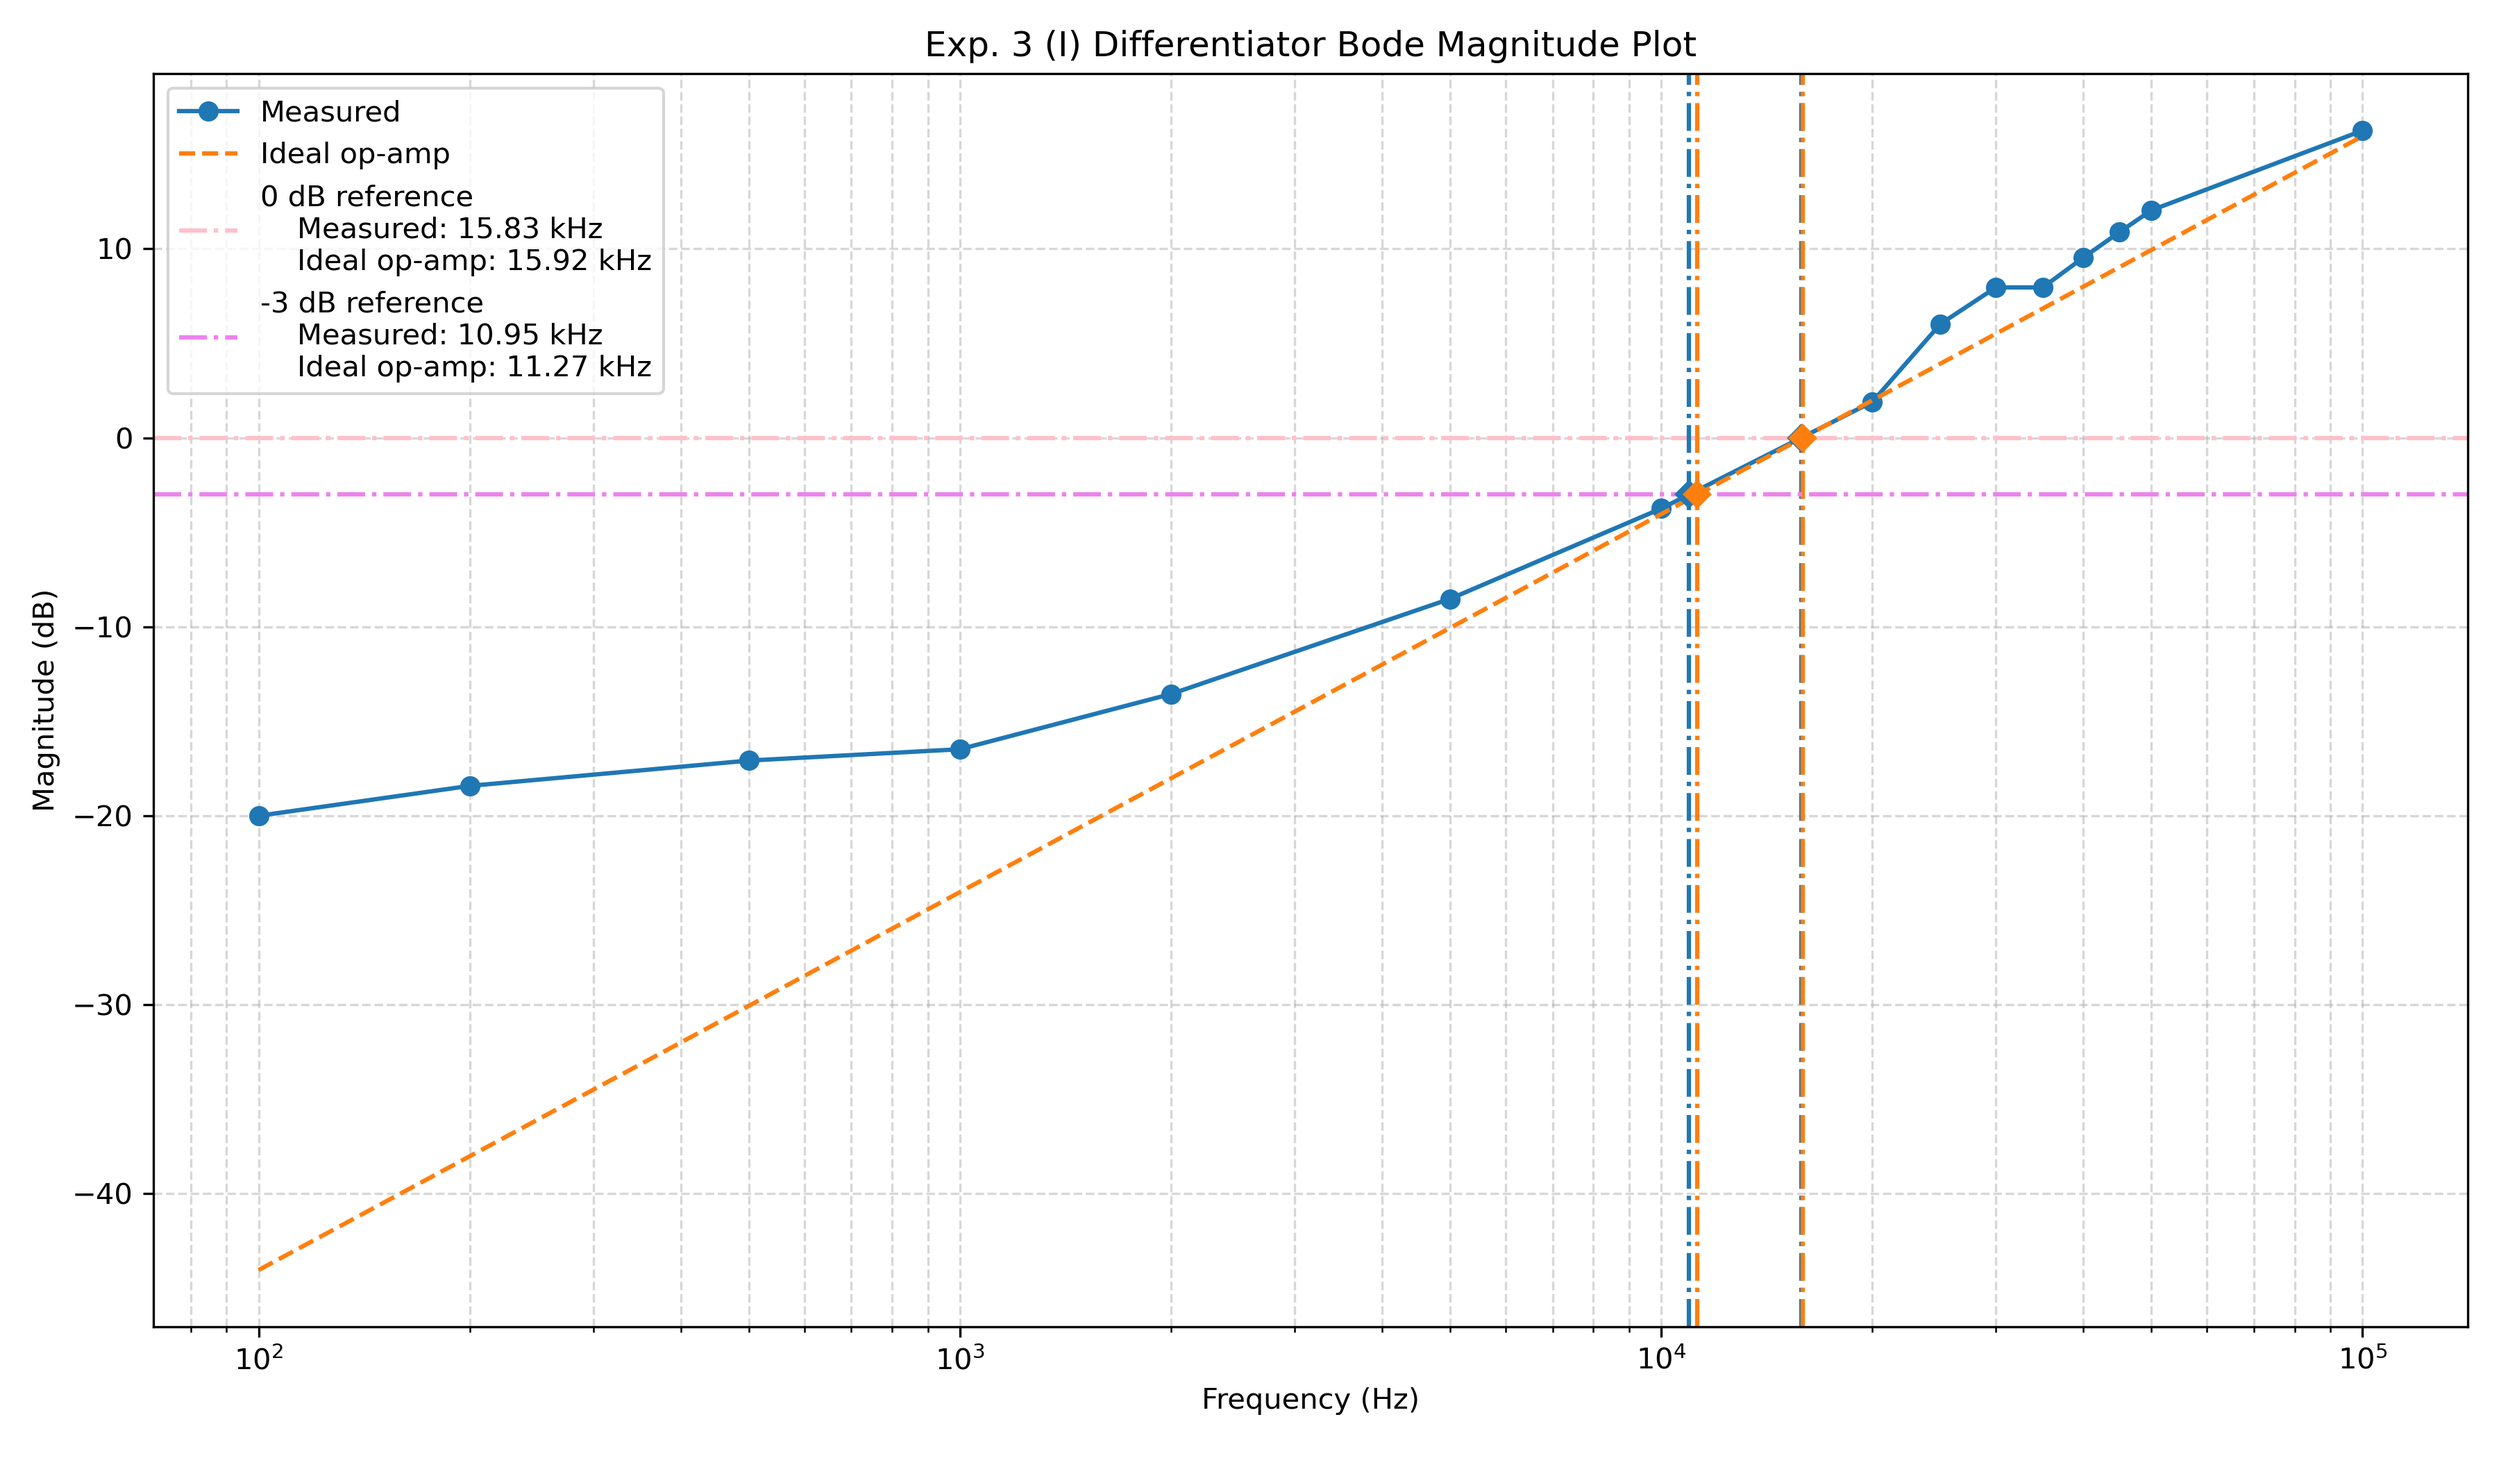
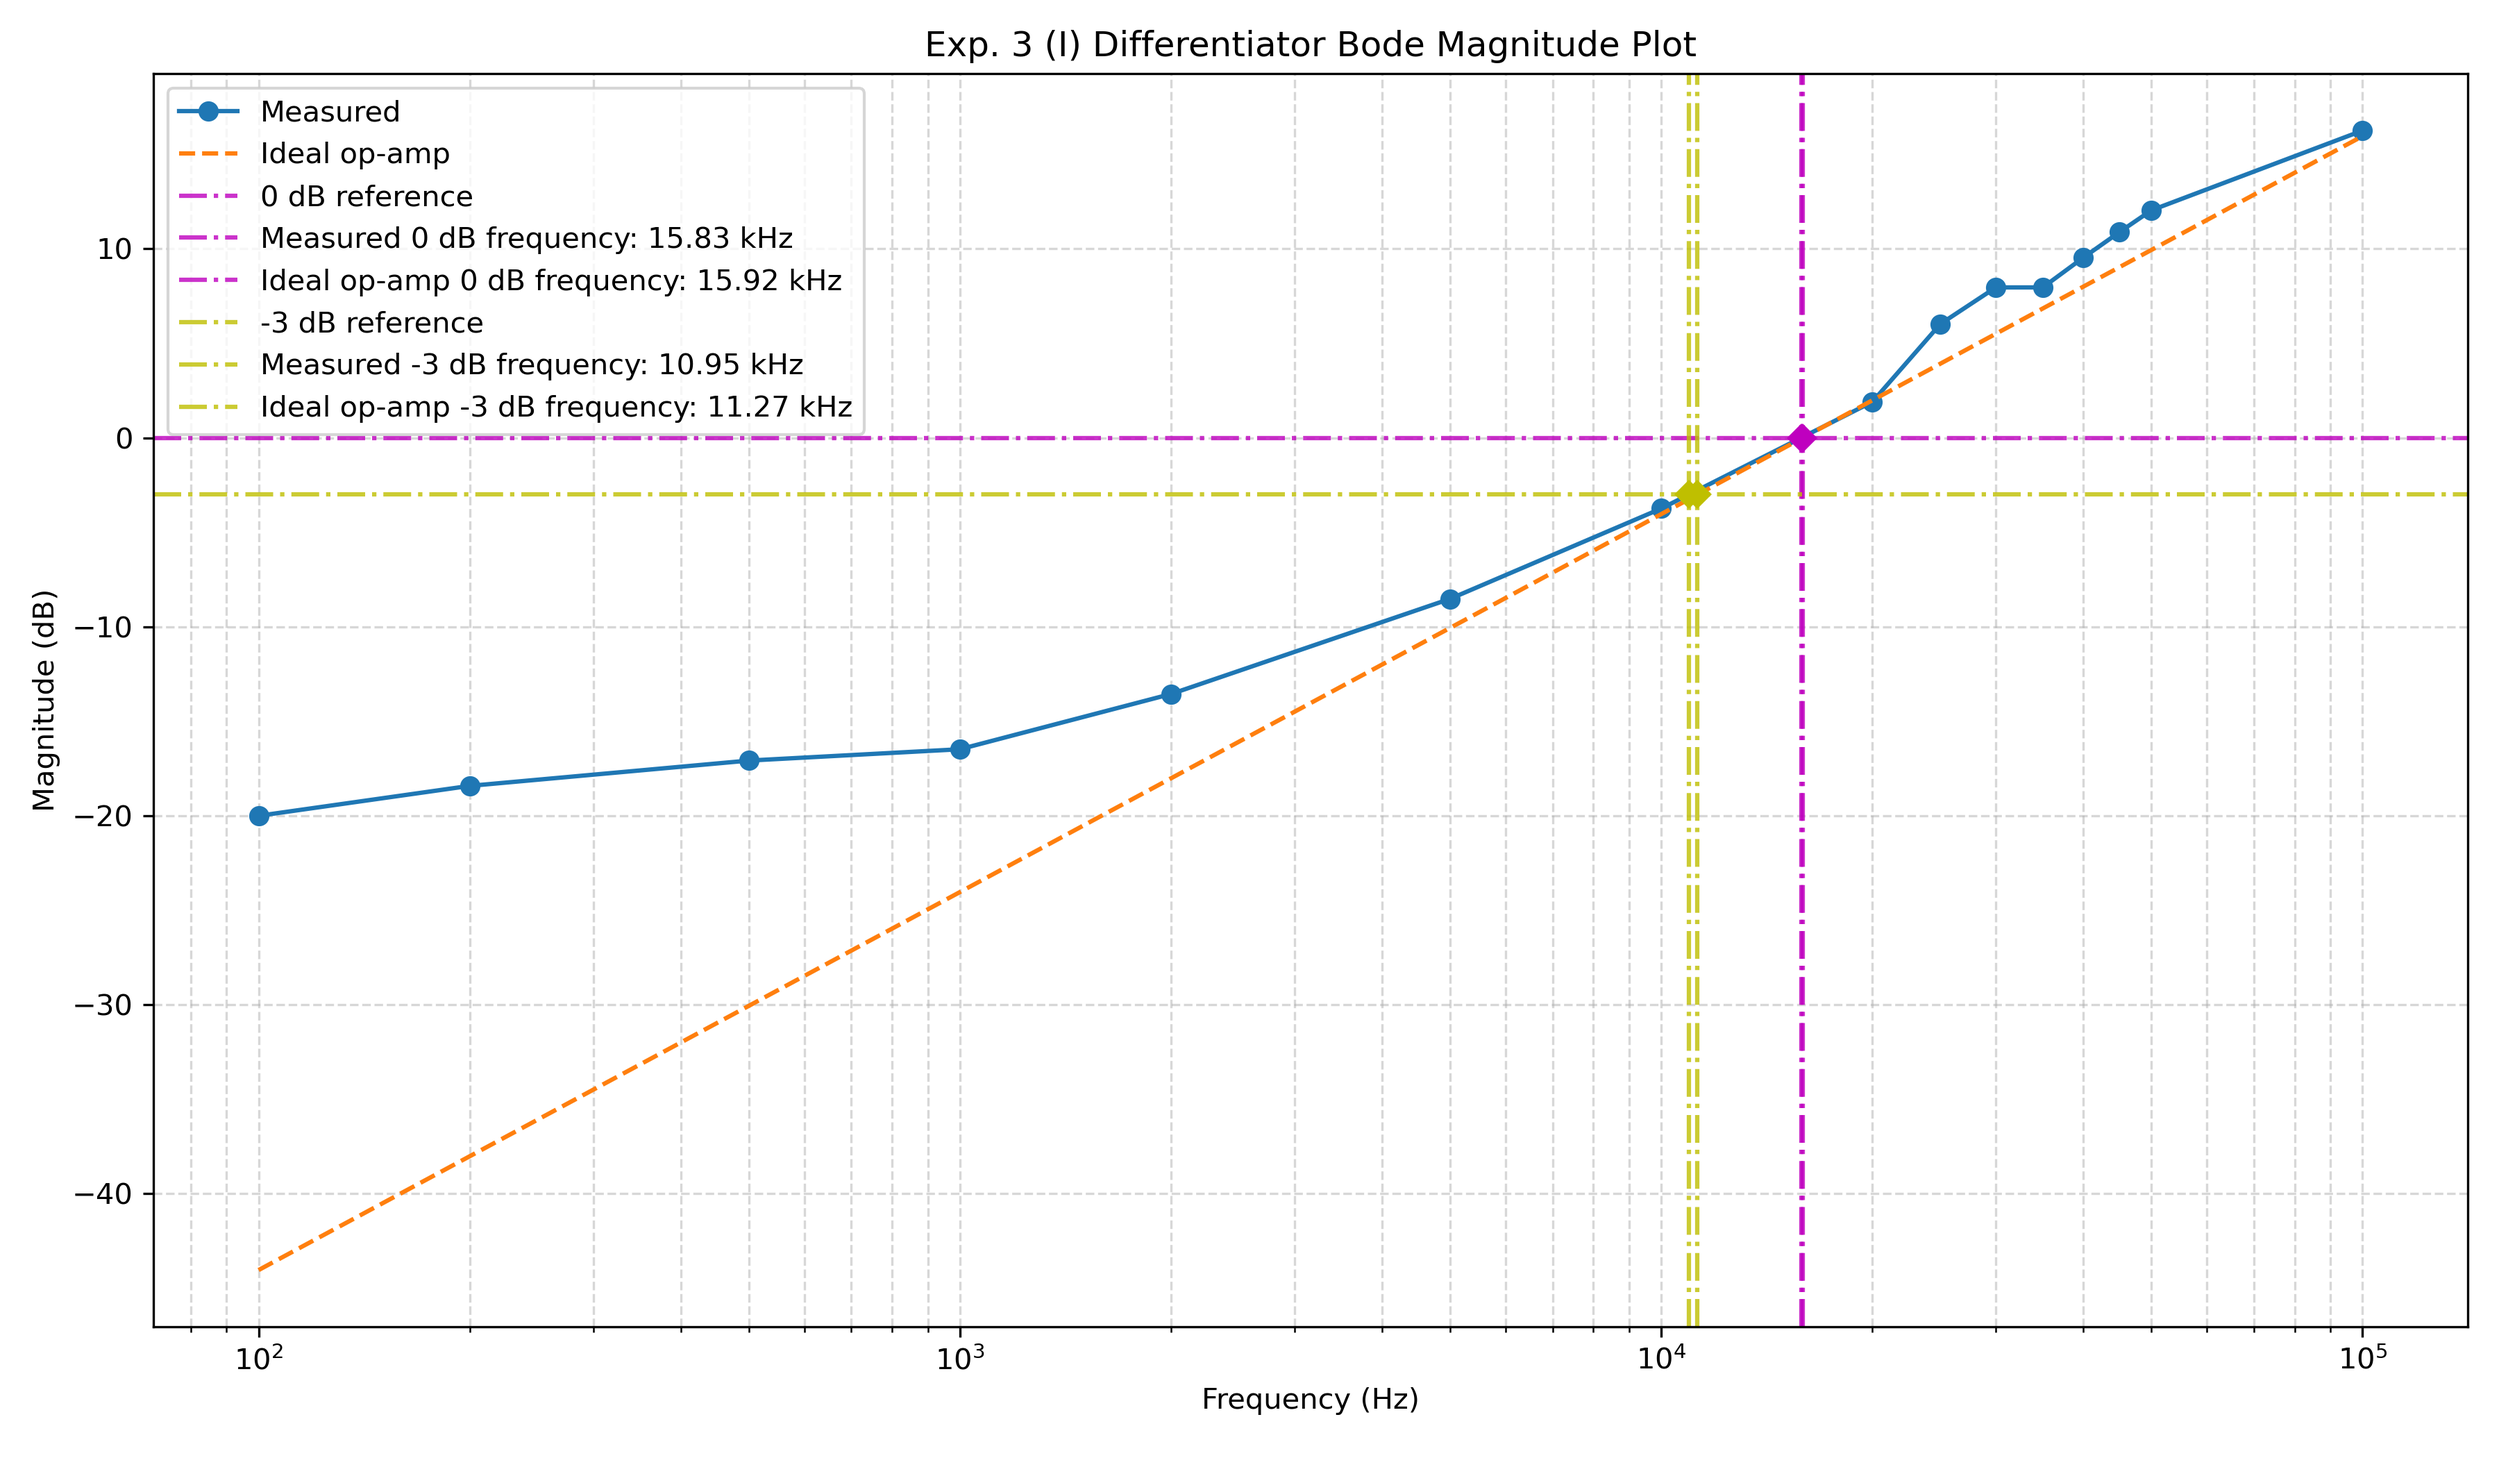
2026-11-08T11:07:13+00:00

Changed region(s): [[0.0622, 0.1548, 0.3422, 0.3095], [0.6533, 0.2786, 0.6844, 0.3714], [0.7156, 0.2786, 0.7467, 0.3405]]

diff --git a/2/post-lab/bode_plot.py b/2/post-lab/bode_plot.py
@@ -117,35 +117,36 @@ def process(C, freq, vout_pp, name, title, plotname, tablename):
     )
     ideal_dense_db = magnitude_db(transfer_function(freq_dense, name, C))
     reference_levels = [0, -3]
-    reference_colors = ["pink", "violet"]
+    reference_colors = ["m", "y"]
     for level, reference_color in zip(reference_levels, reference_colors):
         crossings = [
             find_crossings(freq, dbs[0], level),
             find_crossings(freq_dense, ideal_dense_db, level),
         ]
-        label = f"{level} dB reference"
-        for crossing, amp_name, amp_color in zip(crossings, amp_names, amp_colors):
+        ax.axhline(
+            level,
+            color=reference_color,
+            linestyle="-.",
+            label=f"{level} dB reference",
+            alpha=0.8,
+        )
+        for crossing, amp_name in zip(crossings, amp_names):
             for i, fc in enumerate(crossing):
                 ax.plot(
                     fc,
                     level,
                     marker="D",
                     markersize=6,
-                    color=amp_color,
+                    color=reference_color,
                     zorder=5,
                 )
                 ax.axvline(
                     fc,
-                    color=amp_color,
+                    color=reference_color,
                     linestyle="-.",
+                    label=f"{amp_name} {level} dB frequency: {format_frequency(fc)}",
+                    alpha=0.8,
                 )
-                label += f"\n    {amp_name}: {format_frequency(fc)}"
-        ax.axhline(
-            level,
-            color=reference_color,
-            linestyle="-.",
-            label=label,
-        )
     ax.set_xlabel("Frequency (Hz)")
     ax.set_ylabel("Magnitude (dB)")
     ax.set_title(title)

diff --git a/2/post-lab/Integrators, Differentiators, and Their Frequency Responses 結報.tex b/2/post-lab/Integrators, Differentiators, and Their Frequency Responses 結報.tex
@@ -143,5 +143,8 @@ The differences between the theoretical and experimental results may be attribut
 \ssc{B14901078 林孜謙}
 PLACEHOLDER
 \ssc{B14901153 沈威宇}
-
+PLACEHOLDER
+\sct{Appendix}
+\ssc{Python code}
+\lstinputlisting[language=Python]{bode_plot.py}
 \end{document}
